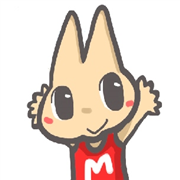
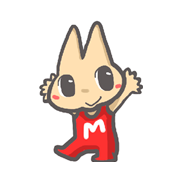
feat: ホーム画面にアプリを追加するカード（iPhone・Android）／アイコンを全身の「あいみん」に
- まだ追加していない人に、通知のカードより先に「📲 ホーム画面にアプリを追加できます」を出す（ユーザー確定の文言）。
  Android・PC は［ホーム画面に追加］で端末の「インストールしますか」、iPhone の Safari は手順3行、
  LINE などの中は「Safari で開く」の案内。追加済みなら今までどおり通知のカード。
  出す・出さない・「後で」の日数は通知のカードの設定をそのまま使う
- lib/installPrompt.ts：beforeinstallprompt を main.tsx から最初に受け取る（開いた直後に1回しか来ないため）
- アイコン：全身の「あいみん」（名前なし）を iPhone・Android の両方に（ユーザー確定 案B）。
  Android の切り抜き用 icon-maskable-512.png を追加。manifest に id・lang・scope・purpose

検算：iPhone のブラウザの見分け7通り／tsc／vite build／rules-of-hooks 0／ESLint 17→17・新規0。DB 変更なし

diff --git a/client/src/App.tsx b/client/src/App.tsx
@@ -54,6 +54,7 @@ import { isInRemindWindow } from './lib/announcementDates';
 import { useFeaturePublished, isFeaturePublished } from './hooks/useFeaturePublished';
 import { useRoles } from './hooks/useRoles';
 import { useRefreshOn } from './hooks/useRefreshOn';
+import { canPromptInstall, subscribeInstall, promptInstall, isStandaloneApp, iosBrowserKind } from './lib/installPrompt';
 import { emit as emitRefresh } from './lib/refreshBus';
 import { routeTopics, TOPICS_BELL, TOPICS_BOARD, TOPICS_SHIFT_REPORT, TOPICS_OVERTIME, TOPICS_APPLICATION_REQUEST } from './lib/badgeTopics';
 // 管理画面をマネージャー以上に開く（2026-09-15・docs/計画-管理画面の開放.md）
@@ -93,6 +94,7 @@ const ScrollToTop: React.FC = () => {
 // iPhone(Safari・ホーム画面未追加)はプッシュ非対応なので「ホーム画面に追加」手順を、
 // それ以外(Android等)はその場で押せる「許可する」ボタンを出し分ける。
 const PUSH_BANNER_DISMISS_KEY = 'push_banner_dismissed_until';
+const INSTALL_BANNER_DISMISS_KEY = 'install_banner_dismissed_until';
 const PushEnableBanner: React.FC = () => {
   const [status, setStatus] = useState<'granted' | 'denied' | 'default' | 'unsupported' | 'loading'>('loading');
   const [hidden, setHidden] = useState(false);
@@ -112,6 +114,69 @@ const PushEnableBanner: React.FC = () => {
       if (until > Date.now()) setHidden(true);
     } catch { /* ignore */ }
   }, []);
+
+  // 「ホーム画面にアプリを追加」のカード（2026-09-27・ユーザー確定）。まだ追加していない人には、通知のカードより先にこちらを出す。
+  // Android・PC＝［ホーム画面に追加］で端末の「インストールしますか」を出す（lib/installPrompt.ts）／iPhone の Safari＝手順3行／
+  // iPhone の LINE などの中＝Safari で開き直す案内。出す・出さない・「後で」の日数は通知のカードの設定（管理画面）に従う
+  const [installAvail, setInstallAvail] = useState(canPromptInstall());
+  const [installHidden, setInstallHidden] = useState(false);
+  useEffect(() => {
+    const un = subscribeInstall(() => setInstallAvail(canPromptInstall()));
+    setInstallAvail(canPromptInstall());
+    try {
+      const until = Number(localStorage.getItem(INSTALL_BANNER_DISMISS_KEY) || 0);
+      if (until > Date.now()) setInstallHidden(true);
+    } catch { /* ignore */ }
+    return un;
+  }, []);
+  const iosKind = iosBrowserKind();
+  if (config && config.enabled && !installHidden && !isStandaloneApp() && (installAvail || iosKind !== null)) {
+    const laterLabel = config.laterLabel.trim() || DEFAULT_PUSH_BANNER_LATER_LABEL;
+    const dismissInstall = () => {
+      try { localStorage.setItem(INSTALL_BANNER_DISMISS_KEY, String(Date.now() + config.redisplayDays * 86400000)); } catch { /* ignore */ }
+      setInstallHidden(true);
+    };
+    const install = async () => {
+      const r = await promptInstall();
+      if (r === 'accepted') setInstallHidden(true);
+    };
+    return (
+      <div style={{ background: '#eef7ee', border: '1px solid #b7e0b7', borderRadius: 10, padding: '12px 14px', marginBottom: 10 }}>
+        <div style={{ display: 'flex', alignItems: 'flex-start', gap: 10 }}>
+          <span style={{ fontSize: 20, flexShrink: 0 }}>📲</span>
+          <div style={{ flex: 1, minWidth: 0 }}>
+            <div style={{ fontSize: 14, fontWeight: 'bold', color: '#1b5e20', marginBottom: 2 }}>ホーム画面にアプリを追加できます</div>
+            <div style={{ fontSize: 12.5, color: '#33691e', lineHeight: 1.7 }}>アイコンから1回で開けて、通知も受け取れます</div>
+            {!installAvail && iosKind === 'safari' && (
+              <div style={{ fontSize: 12.5, color: '#33691e', lineHeight: 1.8, marginTop: 6 }}>
+                ① 下の共有ボタン（□に↑）をタップ<br />
+                ② 「ホーム画面に追加」をタップ<br />
+                ③ 追加されたアイコンから開き直す
+              </div>
+            )}
+            {!installAvail && iosKind === 'other' && (
+              <div style={{ fontSize: 12.5, color: '#33691e', lineHeight: 1.8, marginTop: 6 }}>
+                いまは LINE などのアプリの中で開いています。<br />
+                メニューから「Safari で開く」を選んでから、追加してください。
+              </div>
+            )}
+            <div style={{ display: 'flex', gap: 8, marginTop: 10, flexWrap: 'wrap' }}>
+              {installAvail && (
+                <button onClick={install}
+                  style={{ padding: '7px 18px', borderRadius: 20, border: 'none', background: '#4CAF50', color: '#fff', fontSize: 13, fontWeight: 600, cursor: 'pointer' }}>
+                  ホーム画面に追加
+                </button>
+              )}
+              <button onClick={dismissInstall}
+                style={{ padding: '7px 16px', borderRadius: 20, border: '1px solid #b7e0b7', background: 'transparent', color: '#558b2f', fontSize: 13, cursor: 'pointer' }}>
+                {laterLabel}
+              </button>
+            </div>
+          </div>
+        </div>
+      </div>
+    );
+  }
 
   // 既にON・拒否済み・読み込み中・「後で」で閉じた場合・管理画面でOFFの場合は出さない
   if (hidden || status === 'loading' || status === 'granted' || status === 'denied') return null;

diff --git a/client/src/lib/installPrompt.ts b/client/src/lib/installPrompt.ts
@@ -1,0 +1,62 @@
+// 「ホーム画面にアプリを追加」の案内のための部品（2026-09-27・ユーザー確定）
+//
+// Android・PC の Chrome / Edge は、条件がそろうと beforeinstallprompt という合図を**ページを開いた直後に1回だけ**出す。
+// それを受け取って取っておき、カードの［ホーム画面に追加］を押したときに prompt() で端末の「インストールしますか」を出す。
+// 🚨 合図は1回しか来ないので、画面の部品ではなく main.tsx から最初に読み込む（部品が出る前に来ることがある）。
+// iPhone（Safari）はこの合図が無いので、手順を文字で案内する（App.tsx の PushEnableBanner）。
+
+interface BeforeInstallPromptEvent extends Event {
+  prompt: () => Promise<void>;
+  userChoice: Promise<{ outcome: 'accepted' | 'dismissed' }>;
+}
+
+let deferred: BeforeInstallPromptEvent | null = null;
+const listeners = new Set<() => void>();
+const notify = () => listeners.forEach(fn => fn());
+
+if (typeof window !== 'undefined') {
+  window.addEventListener('beforeinstallprompt', (e) => {
+    // 🚨 既定のミニ案内（ブラウザが勝手に出す帯）は止め、こちらのカードから出す
+    e.preventDefault();
+    deferred = e as BeforeInstallPromptEvent;
+    notify();
+  });
+  window.addEventListener('appinstalled', () => { deferred = null; notify(); });
+}
+
+/** Android・PC で「ホーム画面に追加」を今すぐ出せるか */
+export function canPromptInstall(): boolean { return deferred !== null; }
+
+export function subscribeInstall(fn: () => void): () => void {
+  listeners.add(fn);
+  return () => { listeners.delete(fn); };
+}
+
+/** 端末の「インストールしますか」を出す。合図は1回きりなので、出したら捨てる */
+export async function promptInstall(): Promise<'accepted' | 'dismissed' | 'unavailable'> {
+  const ev = deferred;
+  if (!ev) return 'unavailable';
+  deferred = null;
+  notify();
+  await ev.prompt();
+  const choice = await ev.userChoice;
+  return choice.outcome;
+}
+
+/** アイコンから開いている（アプリとして追加済み）か */
+export function isStandaloneApp(): boolean {
+  return window.matchMedia('(display-mode: standalone)').matches
+    || (navigator as unknown as { standalone?: boolean }).standalone === true;
+}
+
+/**
+ * iPhone でどこから開いているか。
+ *   'safari' … 共有ボタンから追加できる
+ *   'other'  … LINE・Facebook・Instagram などのアプリの中、または Safari 以外のブラウザ（Safari で開き直してもらう）
+ *   null     … iPhone ではない
+ */
+export function iosBrowserKind(ua: string = navigator.userAgent): 'safari' | 'other' | null {
+  if (!/iP(hone|ad|od)/.test(ua)) return null;
+  if (/Line\/|FBAN|FBAV|Instagram|CriOS|FxiOS|EdgiOS|GSA\//.test(ua)) return 'other';
+  return /Safari\//.test(ua) ? 'safari' : 'other';
+}

diff --git a/client/src/main.tsx b/client/src/main.tsx
@@ -4,6 +4,8 @@ import './index.css'
 import './App.css'
 import App from './App.tsx'
 import { bootMark } from './lib/bootMark'
+// 🚨 「ホーム画面に追加」の合図（beforeinstallprompt）は開いた直後に1回だけ来るので、画面より先に受け取る
+import './lib/installPrompt'
 
 if ('serviceWorker' in navigator) {
   window.addEventListener('load', () => {

diff --git a/docs/引き継ぎ-申請系.md b/docs/引き継ぎ-申請系.md
@@ -880,13 +880,38 @@
    ・🚧 実機未確認：通知が届く → 3 分以内（前面復帰ならすぐ）にベルの数字が増える／ベルを開くと最新になっている／プッシュを押して着地 → ベルが開いて光る（今までどおり）
 
 ━━━━━━━━━━━━━━━━━━━━━━━━━━━━━━━━━━━
+■ (153) ホーム画面にアプリを追加するカード／アイコンを全身の「あいみん」に（2026-09-27・DB変更なし）
+━━━━━━━━━━━━━━━━━━━━━━━━━━━━━━━━━━━
+   ・✅ 段3 は本番反映を確認（本番の main 247,675 バイト＝手元と一致）。**本番から 30 秒ごとの数え直しが無くなった**
+   ・きっかけ：別のアプリ（ことばクエスト）の PWA の仕様を見て「社内アプリも iPhone・Android ともにホームに置いてほしい」。
+     調べると土台（manifest・アイコン・standalone・sw.js）は既にあり、**足りないのは追加の案内**だった
+   ・✅ ユーザー確定：見出し「📲 ホーム画面にアプリを追加できます」／本文「アイコンから1回で開けて、通知も受け取れます」／
+     Android・PC のボタン［ホーム画面に追加］（案B）／範囲＝カード・通知のカードとまとめる・Android 向けアイコン（オフライン起動は後で）
+   ・出し分け（App.tsx の PushEnableBanner の先頭）：まだ追加していない人に、通知のカードより先に出す。
+     Android・PC＝beforeinstallprompt を受け取っていればボタン／iPhone の Safari＝手順3行（今の通知のカードと同じ文）／
+     iPhone の LINE・Chrome などの中＝「メニューから Safari で開く」。追加済み（standalone）なら出さず、今までどおり通知のカード。
+     出す・出さない・「後で」の日数は**通知のカードの設定（管理画面）をそのまま使う**。「後で」の記録は別のキー（install_banner_dismissed_until）
+   ・`lib/installPrompt.ts`（新規）：beforeinstallprompt は**開いた直後に1回しか来ない**ので main.tsx から最初に読み込んで受け取っておく。
+     iPhone のブラウザの見分け（iosBrowserKind）は検算 7 通り
+   ・✅ アイコン：ユーザー確定＝**全身の「あいみん」（名前なし・案B）を iPhone・Android の両方に**。元画像は NAS
+     `\\NAS-SIJYO\Public\四条本校マイドキュメント\98_写真動画\ロゴ_あいみん\あいみん・ファイミー\あいみん 名前入り元画像.jpg`（305×373・名前の行は切り落とした）。
+     白地の中央に 80%（icon-192・icon-512・apple-touch-icon）／Android の切り抜き用 `icon-maskable-512.png` は 66%（最小の安全な円でも耳から足まで残ることを見本で確認）。
+     manifest に id・lang・scope・purpose を足した。🚨 元画像が小さいので少し柔らかい。大きい元画像があれば差し替えるとくっきりする。favicon.ico は今のまま
+   ・🚨 すでにホームに追加している人のアイコンは、iPhone は追加し直すまで古いまま（端末が追加した時点の絵を持つ）。Android は数日で自動で置き換わる
+   ・検算：tsc／build／rules-of-hooks 0／ESLint App・main 17→17・新規 0
+   ・🚧 実機未確認：Android の Chrome でホームを開く → 緑のカード［ホーム画面に追加］→ 端末の「インストール」→ アイコンが全身の絵／
+     iPhone の Safari → 手順3行／LINE から開く → Safari で開く案内／追加済みのアイコンから開くとカードが出ず、通知が OFF なら「通知設定のお願い」
+
+━━━━━━━━━━━━━━━━━━━━━━━━━━━━━━━━━━━
 ■ 次にやること（優先順）
 ━━━━━━━━━━━━━━━━━━━━━━━━━━━━━━━━━━━
 00.【🚨 通信量・2026-09-27 決定】Supabase 無料枠の通信量が 4.52/5 GB（90%）。**計画は `docs/計画-自動更新の見直し.md` が正**
    （専門家役4体＋本番の実測で裏取り済み・有料プランにはしない＝経営者の決定）。30 秒ごとの数え直し（月 139 万回）をやめ、
    `notifications` を「変わったかどうかの目印」に 1 本読む形へ。✅ ユーザー決定：休暇の最終受理者にもベル（案A）。
    出す順：段0（勤務変更の再提出の通知＝既存不具合／最終受理者へのベル）→ 段1（台帳の部品＋連絡板の未読）→ 段2〜5。添付（画像・PDF）はそのあと
-   ✅ 段0 は 2026-09-27 に実装（(149)）。✅ 段1 も同日（(150)）。✅ 段2 も同日（(151)）。✅ 段3（ベル）も同日（(152)）＝30 秒ごとは 0 か所。次はアプリの追加カード（範囲 1〜3・ユーザー確定）→ 段4（ホームの2重・連絡板の前面復帰）→ 2 週間の効きの確認
+   ✅ 段0 は 2026-09-27 に実装（(149)）。✅ 段1 も同日（(150)）。✅ 段2 も同日（(151)）。✅ 段3（ベル）も同日（(152)）＝30 秒ごとは 0 か所。✅ アプリの追加カードも同日（(153)）。次は段4（ホームの2重・連絡板の前面復帰）→ 2 週間の効きの確認
+   🚨 場所予約の担当へ**まだ伝えていない**：2人共通の App.tsx（段1〜3・追加カード）・main.tsx（installPrompt の読み込み）・public のアイコンと manifest。
+     「バッジの数字が最長 3 分遅れることがある（ページを移る・前面に戻るとすぐ直る）」を添える
 0b.【2026-09-26 のぶんの実機確認・最優先】（どれもこちらでは画面を開けない）
    ▼ (148) 管理画面の残業タブ・勤怠カレンダーの札が「遅出(イベント・会議など)」（イベントを選んだ申請ができてから）／調整休の申請ベルの2行目が「時間外調整休」
    ▼ (142) テンプレート：送信画面の［📋 テンプレートから］→ シート → 行を開く →［使う］（書きかけありで黄色）／［保存］→ 名前・分類・保存先 → 薄緑／
